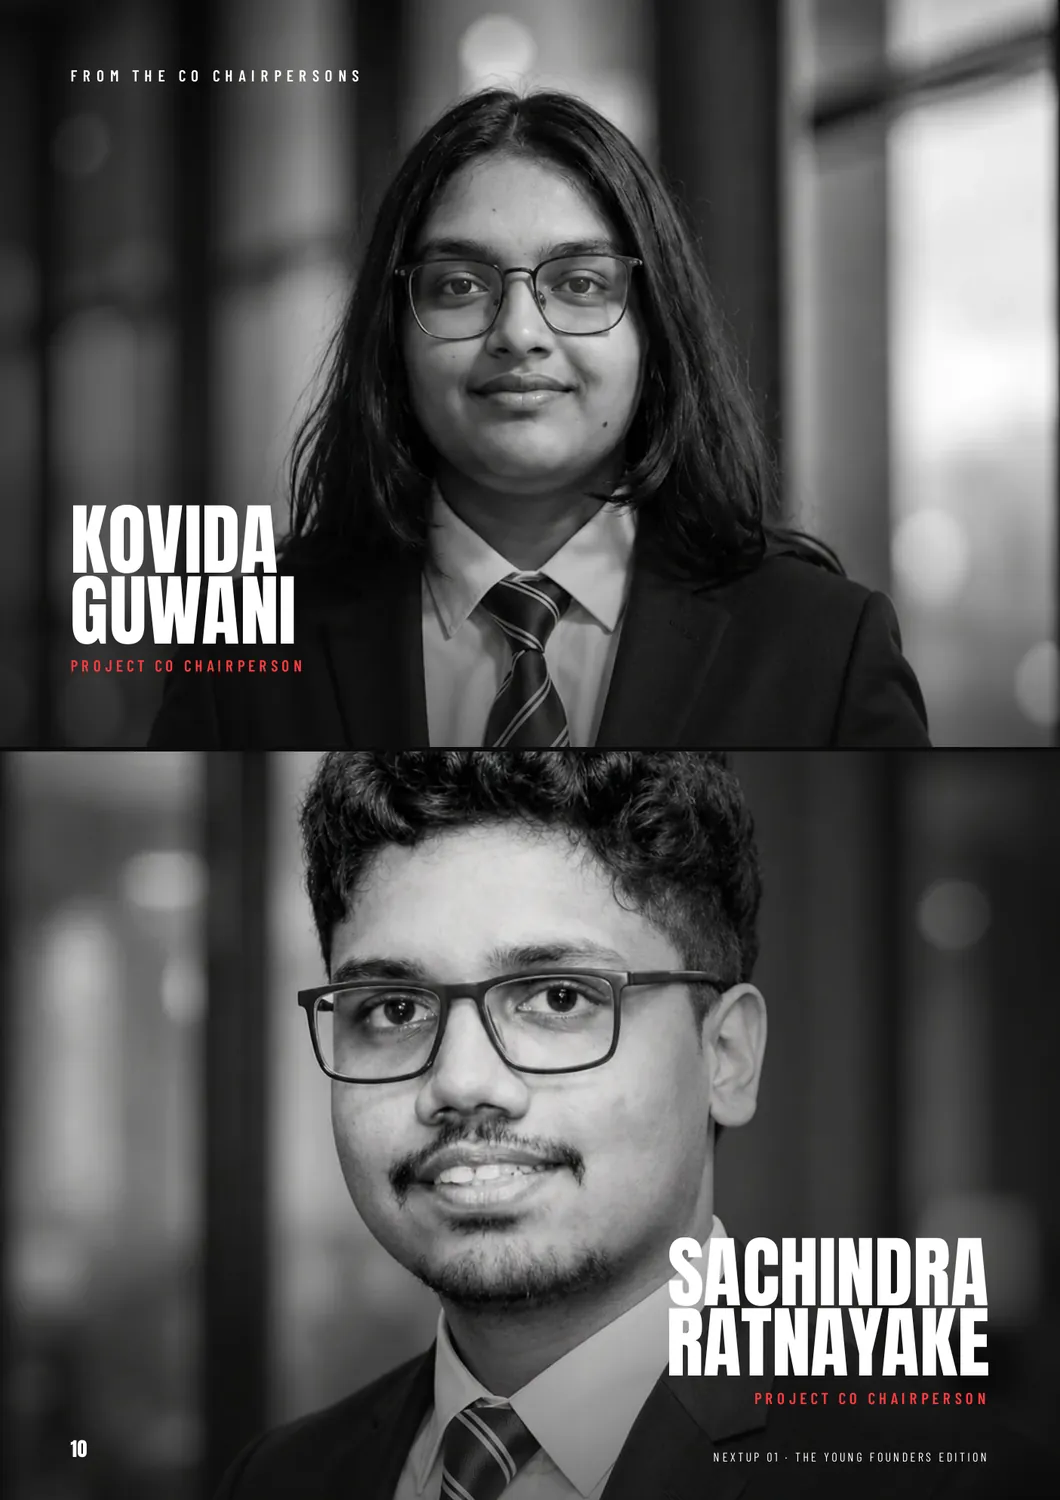
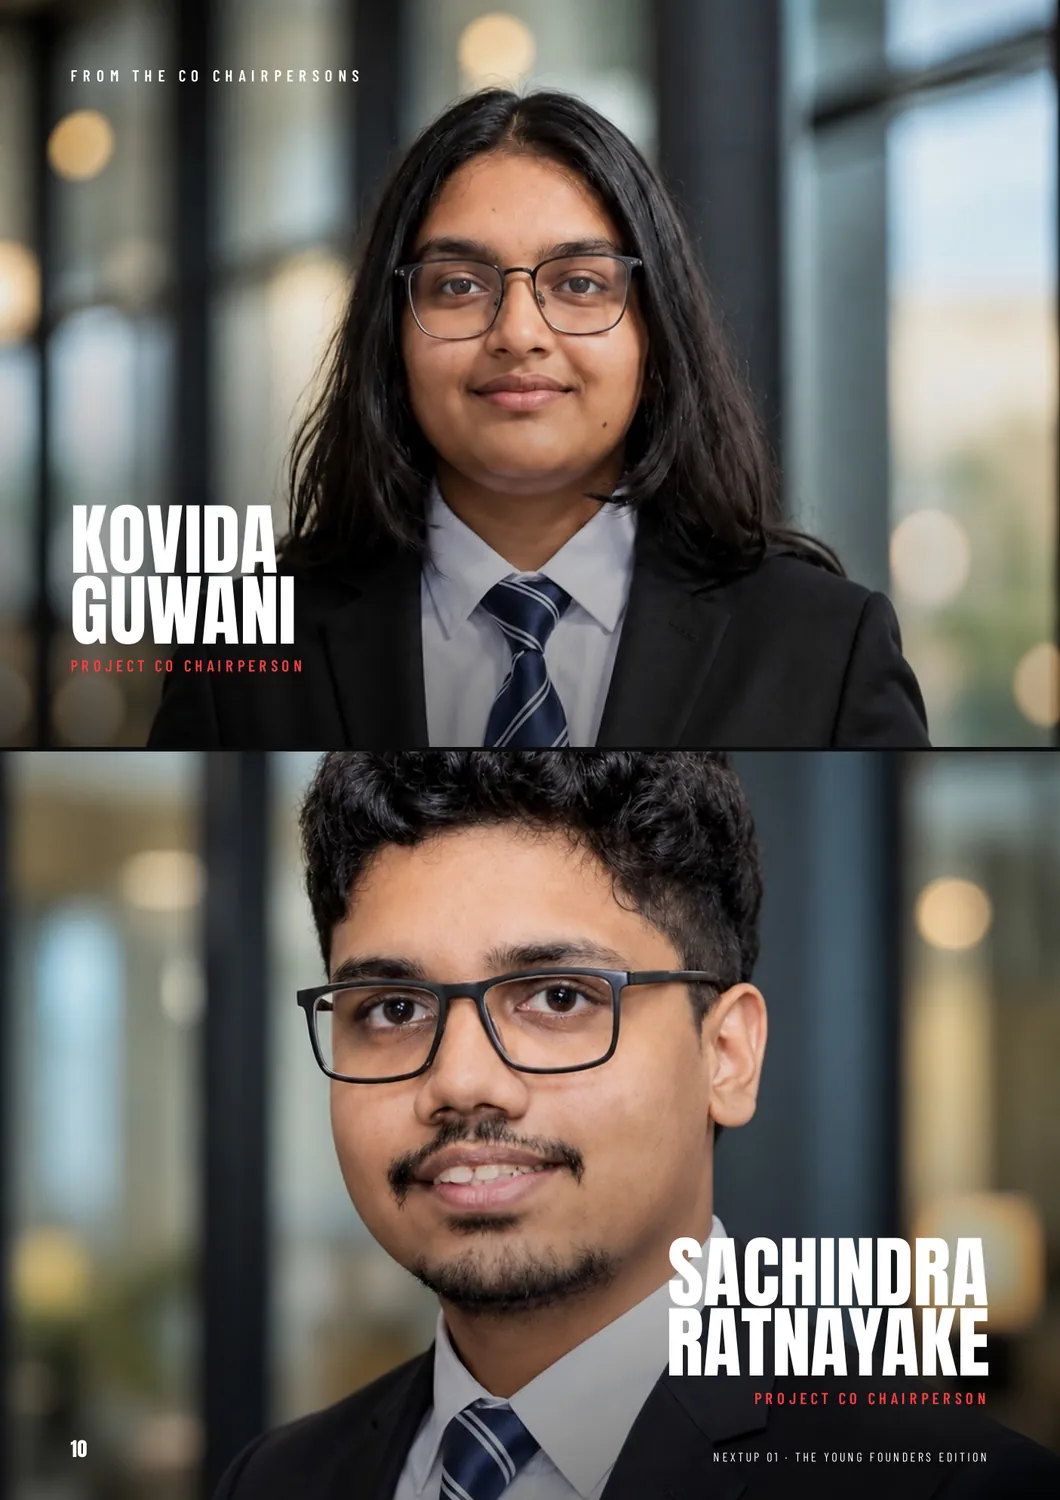
NEXTUP 01: colour photos for Kovida and Sachindra; home founder photo in black and white

diff --git a/src/components/sections/ChairmanSection.tsx b/src/components/sections/ChairmanSection.tsx
@@ -33,7 +33,7 @@ export default function ChairmanSection() {
               margin: '0 auto'
             }}>
               <img
-                src="/isira-chirayu.webp"
+                src="/isira-chirayu-bw.webp"
                 alt="Isira Chirayu — Founder & Chairman, AISCA"
                 style={{
                   width: '100%',
